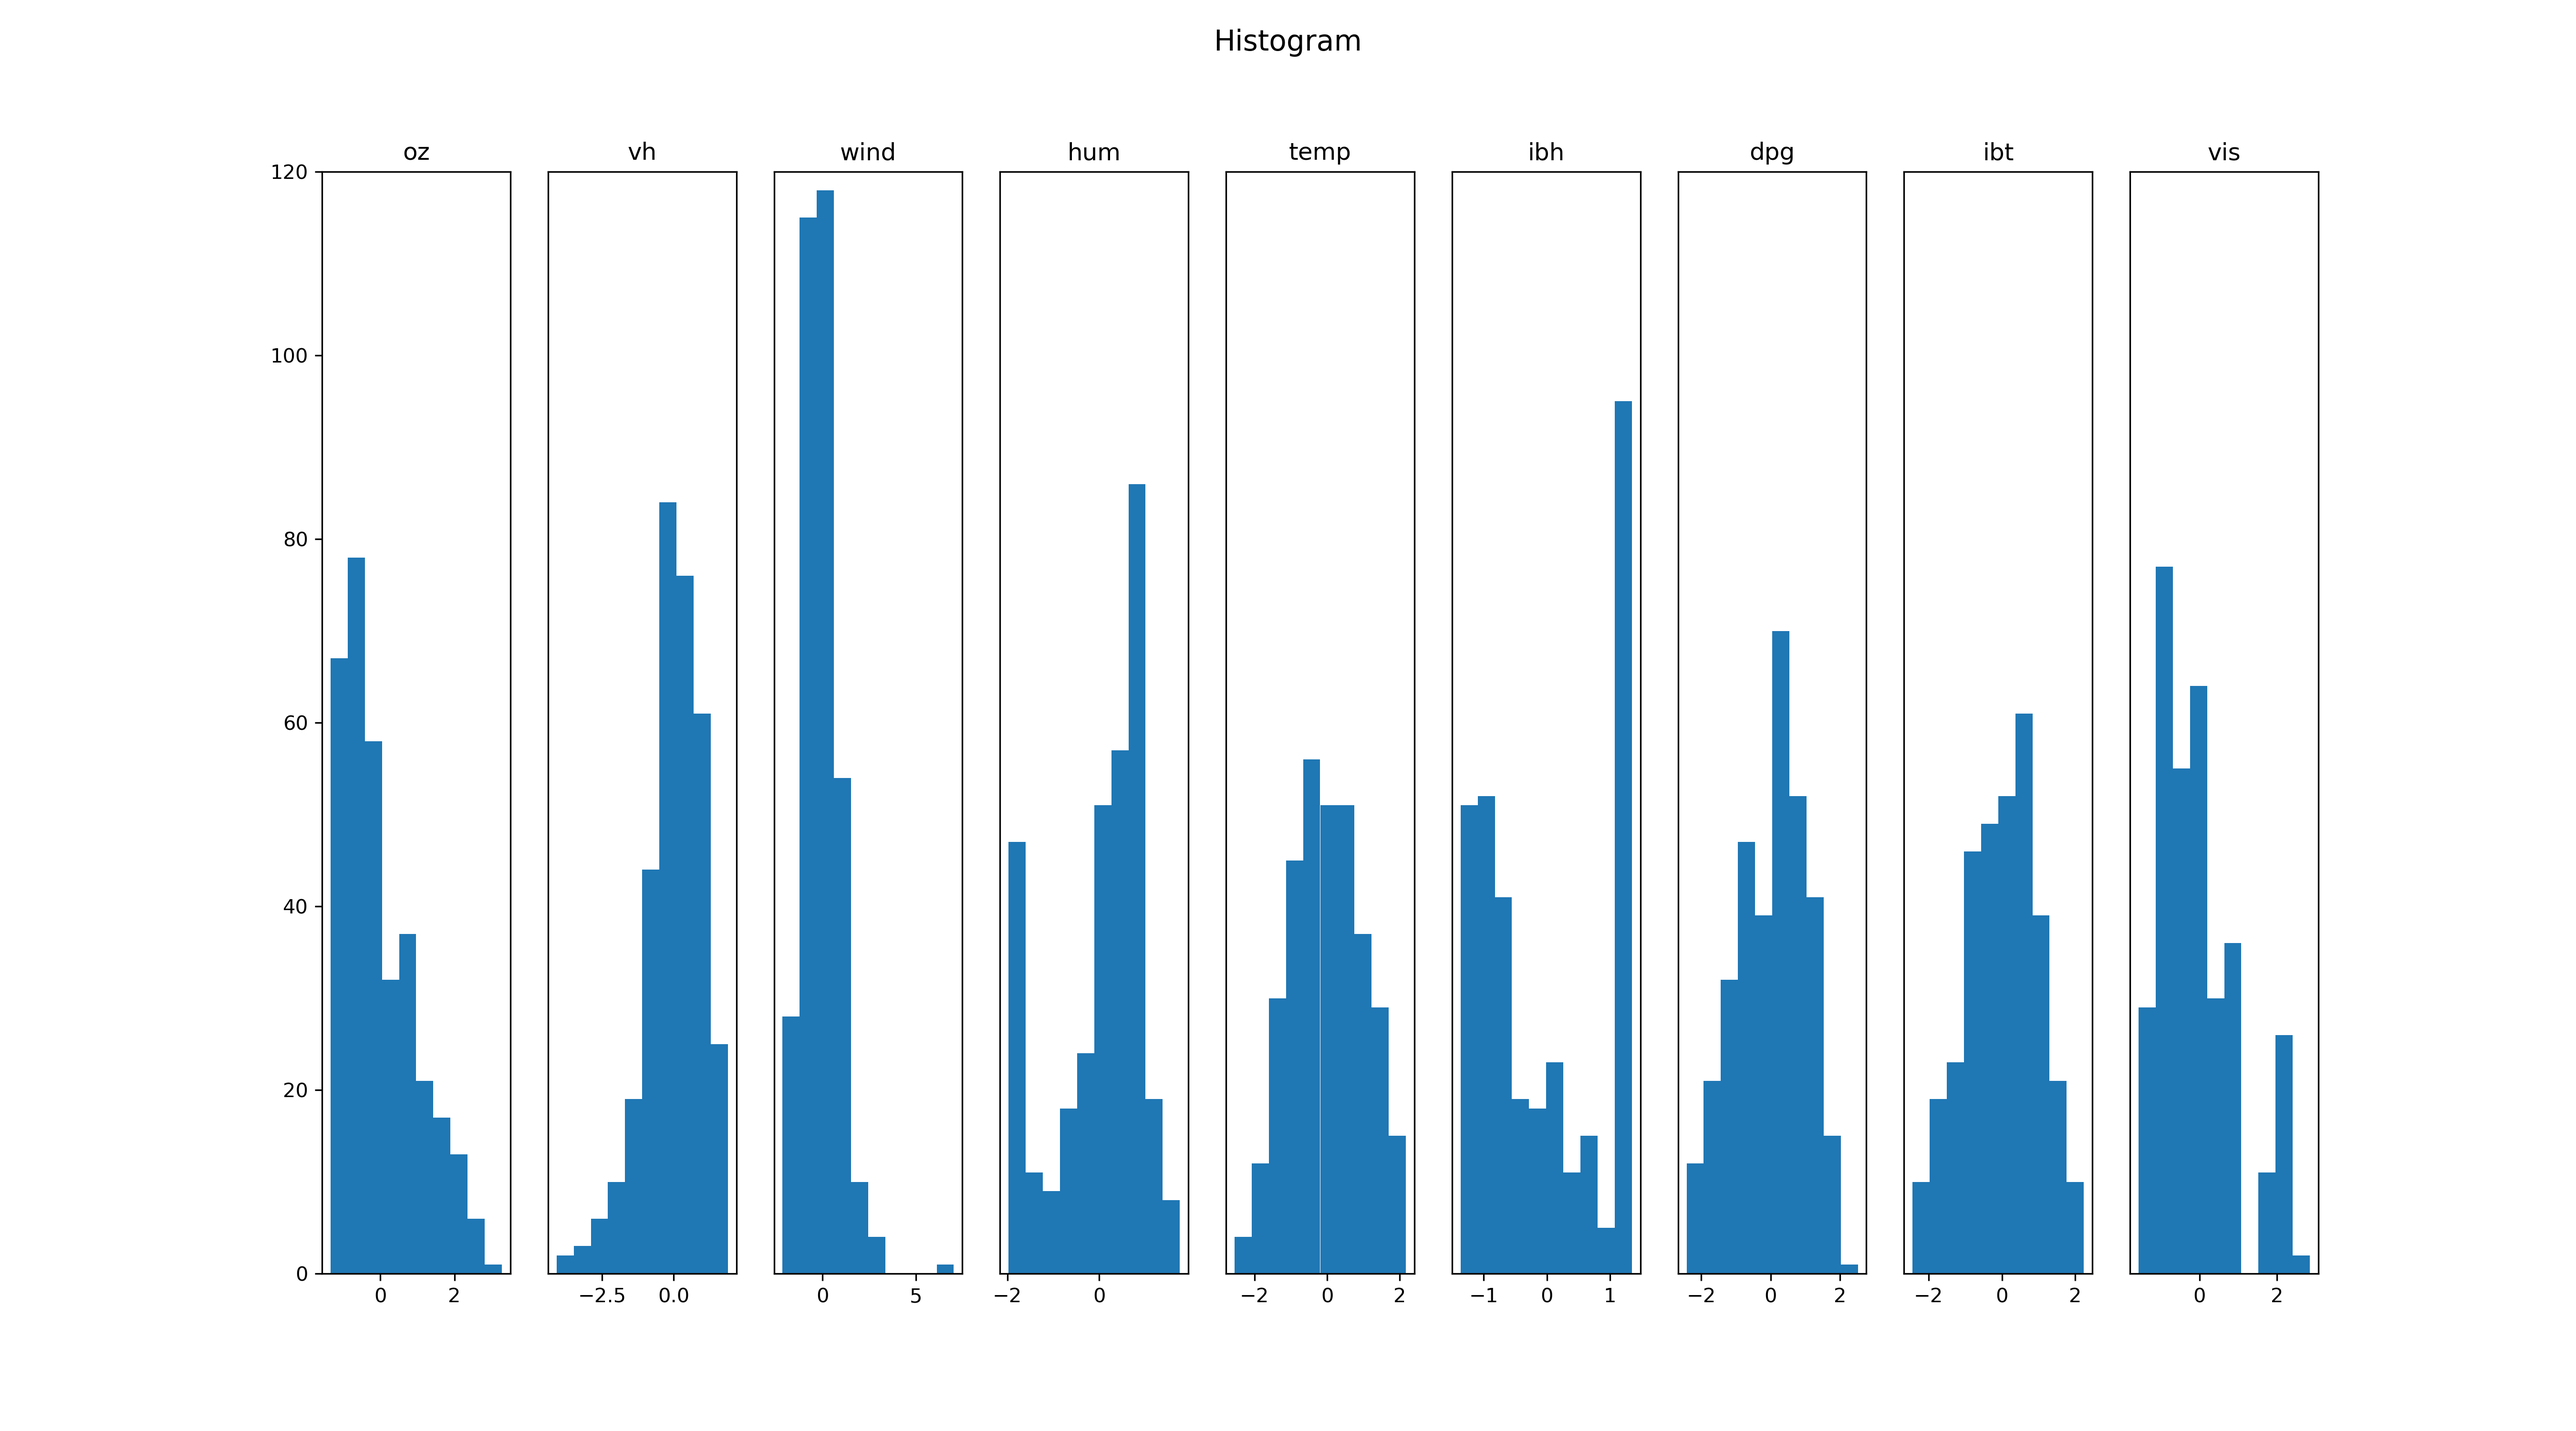
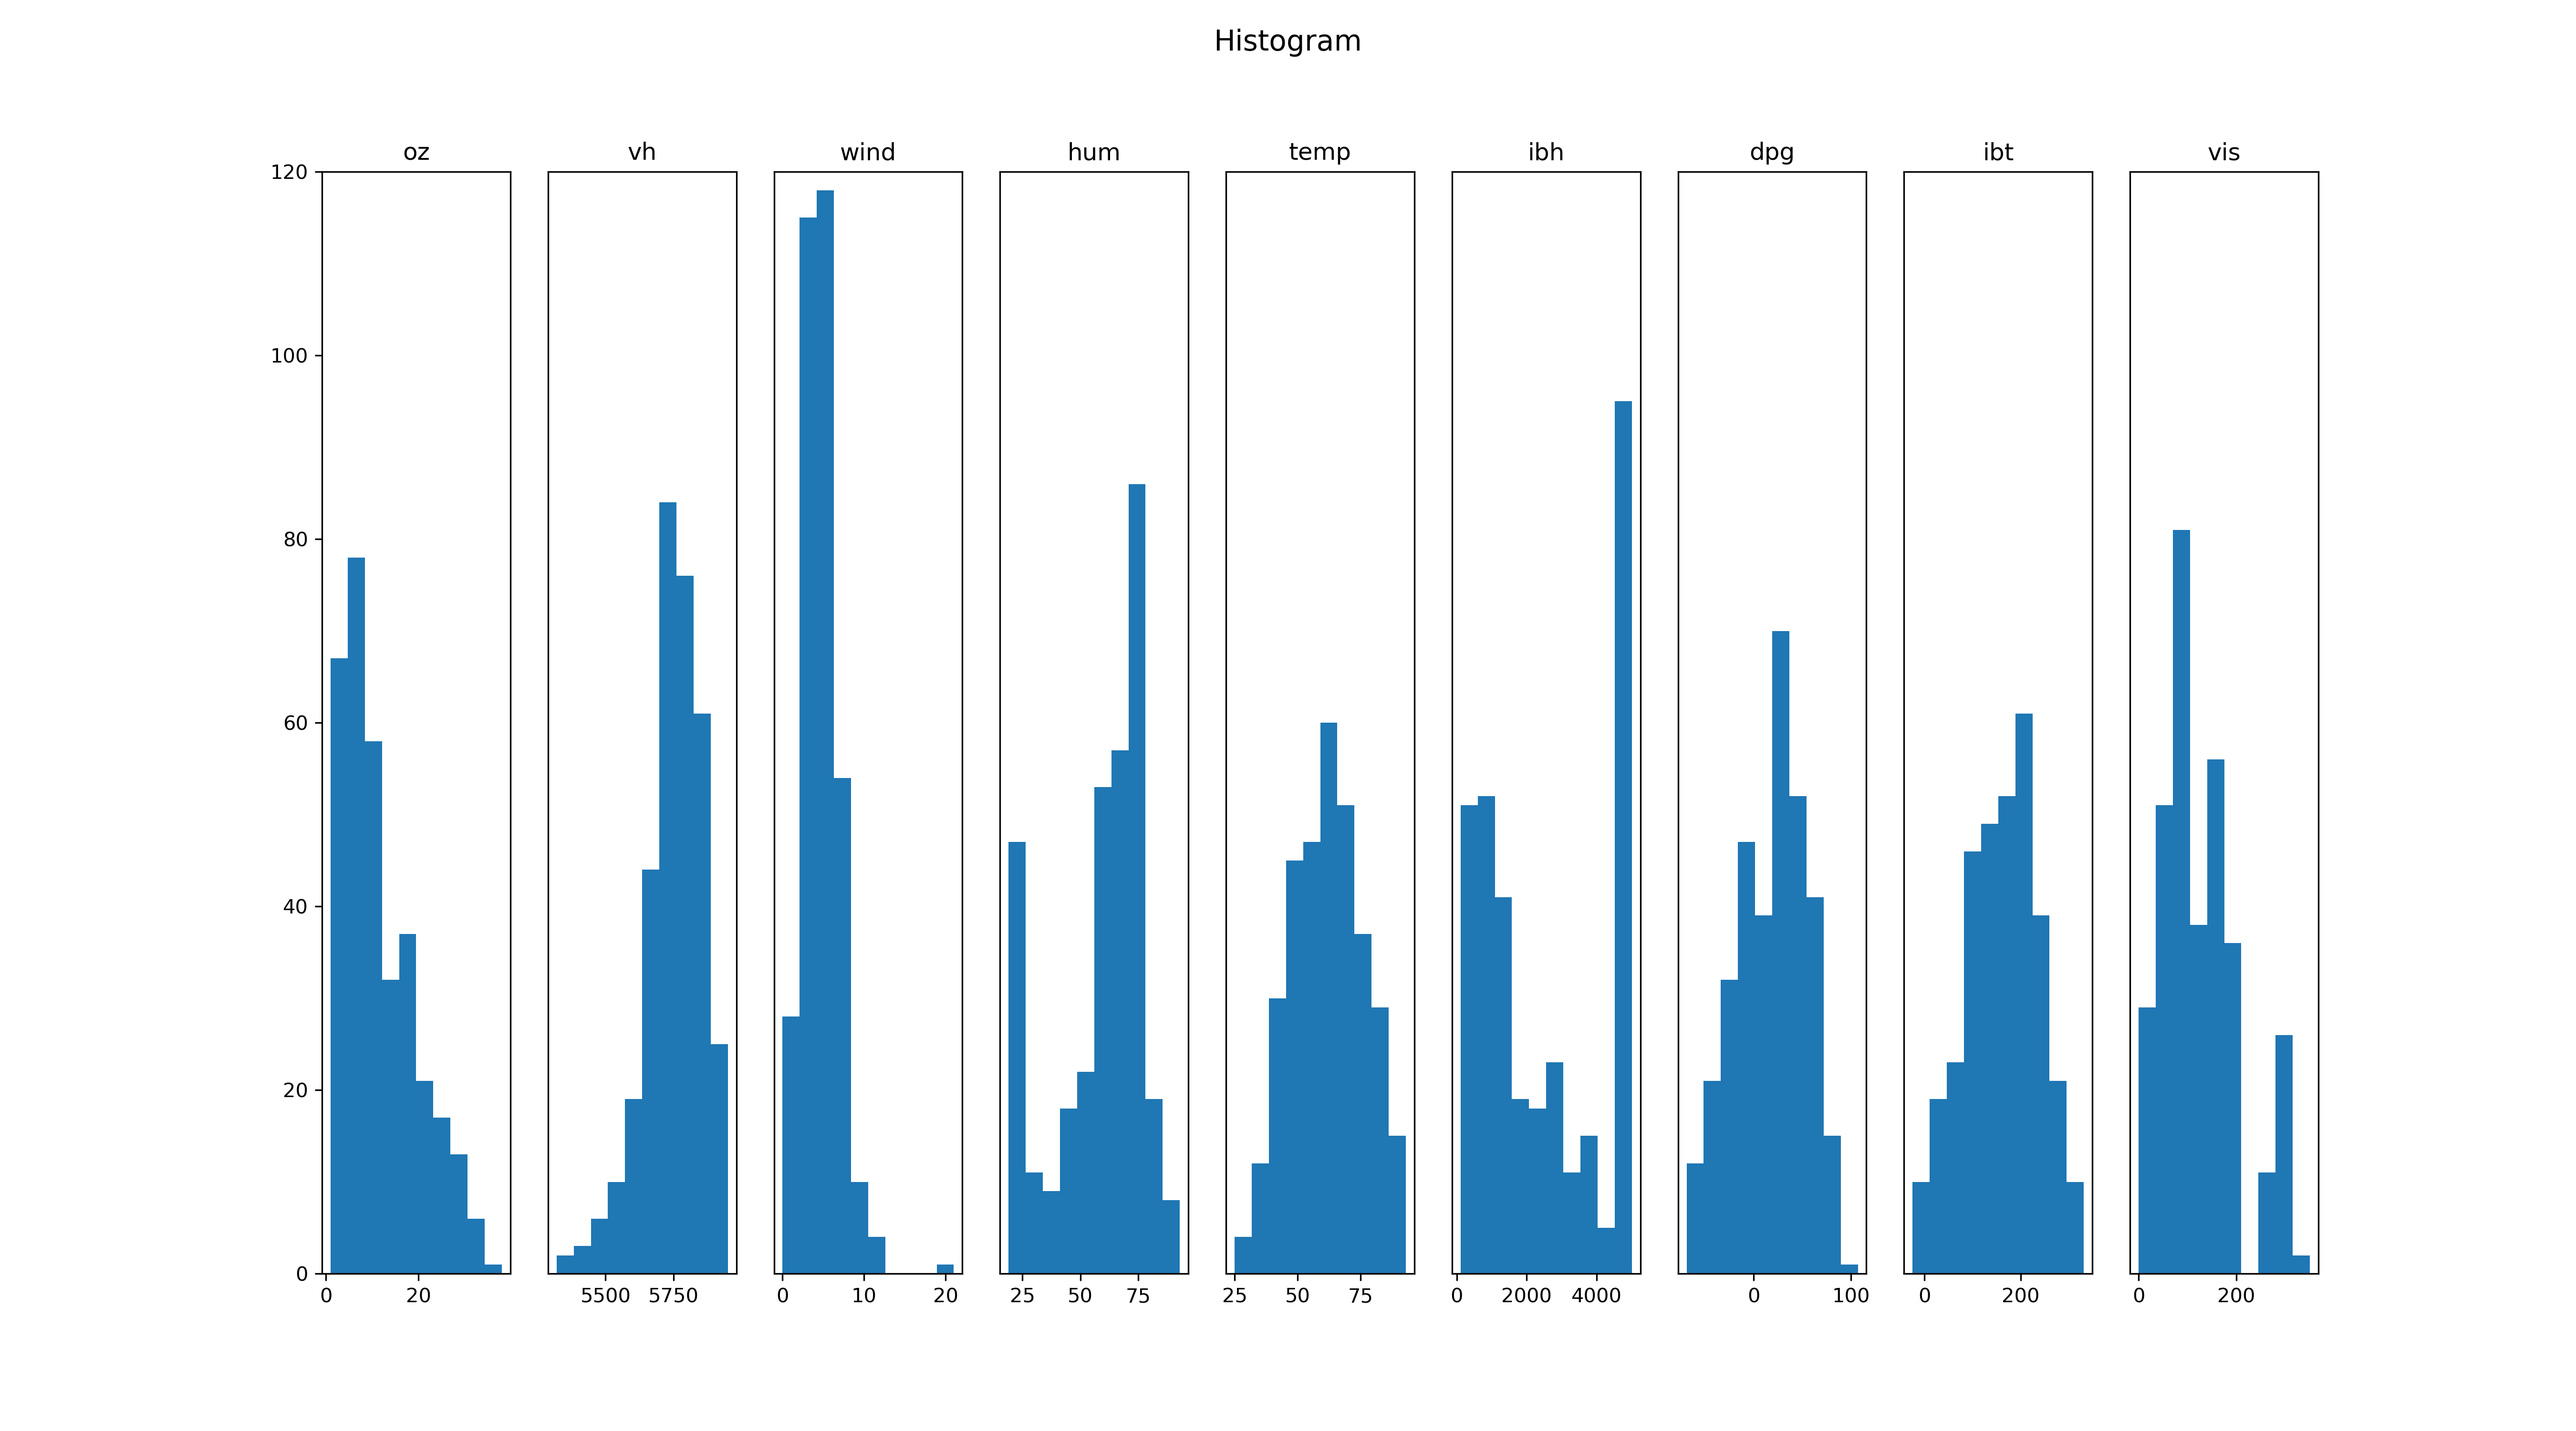
fixed histogram

Changed region(s): [[0.8089, 0.372, 0.8711, 0.713], [0.4978, 0.496, 0.5289, 0.589], [0.5911, 0.899, 0.6222, 0.93]]

diff --git a/oz_Histogram.py b/oz_Histogram.py
@@ -5,7 +5,7 @@ from ImportData import *
 plt.figure(figsize=(18, 10))
 for m in range(M-4):
     plt.subplot(1, M-4, m+1)
-    plt.hist(Y[:, m])
+    plt.hist(X[:, m])
     plt.title(attributeNames2[m])
     plt.ylim(top=120, bottom=0)
     if m != 0:
